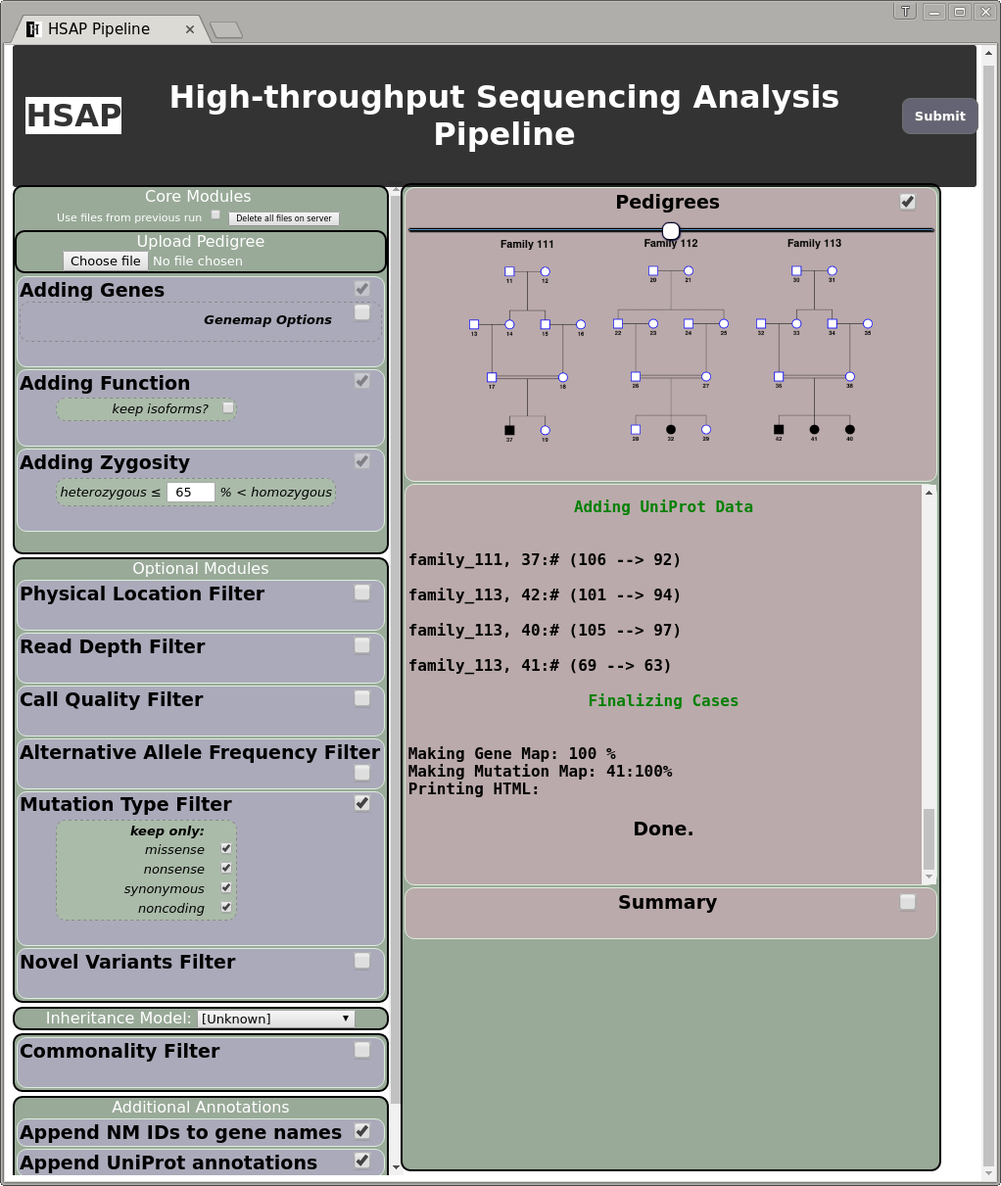
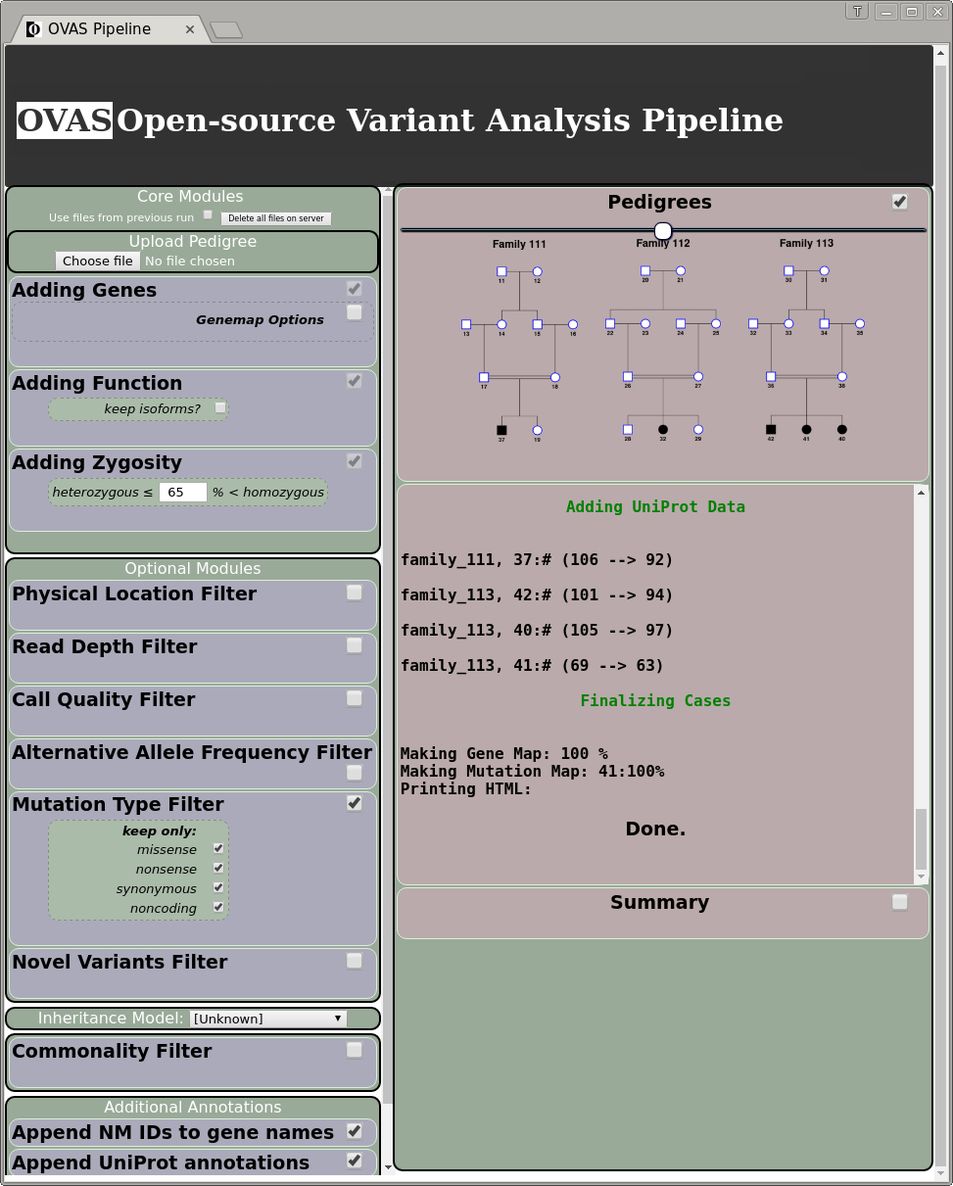
joined small paragraphs, fixed hsap -> ova

diff --git a/sections/introduction.tex b/sections/introduction.tex
@@ -16,23 +16,17 @@ BAM and VCF data are orthogonally related, with the former storing horizontal st
 %\fig{fig:pileup}{images/keep/pileup.jpg}
 %{Visualization of a BAM file using Golden Helix Genome Browser. (a) Read depth representing the amount of reads that have been aligned to the reference sequence (c) for each bp. The pile-up (b) shows each read in the given region. The red column indicates a single variant, with summarized variant properties shown in table (d).}
 
-\fig{fig:vcf}{images/keep/vcf_header.jpg}
-{VCF header and body data describing the type of annotations and their contents respectively.}
+%\fig{fig:vcf}{images/keep/vcf_header.jpg}
+%{VCF header and body data describing the type of annotations and their contents respectively.}
 
 
-The VCF specification was designed for the 1000 Genomes project to produce a robust format that could house the many samples often sequenced under the same batch, but has since been adopted by other projects such as UK10K, dbSNP, NHLBI Exome Project, and others. As shown in Fig~\ref{fig:vcf}, the format is flexible with annotations, where additional fields can be outlined in the header and adhered to in the body of the data \citep{danecek2011variant}. 
+The VCF specification was designed for the 1000 Genomes project to produce a robust format that could house the many samples often sequenced under the same batch, but has since been adopted by other projects such as UK10K, dbSNP, NHLBI Exome Project, and others. The format is flexible with annotations, where additional fields can be outlined in the header and adhered to in the body of the data. Each line of the VCF body describes a single variant; physical position paired with a reference allele (as ascribed by a reference genome consistent across the entire VCF file) and alternate alleles that appear within samples. Major and minor alleles are specific only to the sample population but their frequencies can be pre-computed and appended to a variant line as additional information to then be utilized in small population analyses such as inheritance modelling \citep{danecek2011variant}.
 
-Each line of the VCF body describes a single variant; physical position paired with a reference allele (as ascribed by a reference genome consistent across the entire VCF file) and alternate alleles that appear within samples. Major and minor alleles are specific only to the sample population but their frequencies can be pre-computed and appended to a variant line as additional information to then be utilized in small population analyses such as inheritance modelling \citep{danecek2011variant}.
-
-Variant analysis suites all work under the same principle; filtering all variants under a user-specified set of criteria against the various variant annotations present in the VCF in order to produce a subset informative to the phenotype. Optimistic filtering measures will produce a smaller set with the drawback of missing key causative variants, and conservative filtering measures will produce too many false positives.
-
-The effectiveness of an analysis rests primarily upon the accuracy of the variant annotations which can attribute to as much as 15\% of false negatives \citep{warden2014detailed}, as well as the frequency of false negatives that are discarded due to overly-stringent quality filtering. A common approach to addressing both issues is through learning algorithms that can be trained to favour individual variants over others with the caveat of producing results via 'black-box' methods that may create some disparity between the user and their data \citep{pabinger2014survey}. 
+Variant analysis suites all work under the same principle; filtering all variants under a user-specified set of criteria against the various variant annotations present in the VCF in order to produce a subset informative to the phenotype. Optimistic filtering measures will produce a smaller set with the drawback of missing key causative variants, and conservative filtering measures will produce too many false positives. The effectiveness of an analysis rests primarily upon the accuracy of the variant annotations which can attribute to as much as 15\% of false negatives \citep{warden2014detailed}, as well as the frequency of false negatives that are discarded due to overly-stringent quality filtering. A common approach to addressing both issues is through learning algorithms that can be trained to favour individual variants over others with the caveat of producing results via 'black-box' methods that may create some disparity between the user and their data \citep{pabinger2014survey}. 
 
 A more transparent approach is to expand the scope of the filtering beyond the variant/gene-level and explore variants under a larger trait-penetrance context outlined in Fig~\ref{fig:inheritance}.
 
-Mendelian traits conform to the four classical modes on inheritance of autosomal/X-linked dominant/recessive penetrance. Dominant disorders result from the inheritance of a single mutant allele which is manifested in each subsequent generation with a 50\% chance of likelihood in offspring from a single affected parent.
-
-Recessive traits require the inheritance of two mutant alleles on opposing strands in order to completely block any functioning copies of the causative gene. Parents are typically carriers with affected offspring. These disorders are at times a result of consanguineous marriages, where a single mutant allele manifests on both alleles due to the multiple paths of descent it can undertake \citep{kari2014consanguinity}. In the case of X-linked recessive inheritance, males with a single mutant copy are hemizygous and must express the phenotype as shown in Fig~\ref{fig:inheritancex}.
+Mendelian traits conform to the four classical modes on inheritance of autosomal/X-linked dominant/recessive penetrance. Dominant disorders result from the inheritance of a single mutant allele which is manifested in each subsequent generation with a 50\% chance of likelihood in offspring from a single affected parent. Recessive traits require the inheritance of two mutant alleles on opposing strands in order to completely block any functioning copies of the causative gene. Parents are typically carriers with affected offspring. These disorders are at times a result of consanguineous marriages, where a single mutant allele manifests on both alleles due to the multiple paths of descent it can undertake \citep{kari2014consanguinity}. In the case of X-linked recessive inheritance, males with a single mutant copy are hemizygous and must express the phenotype as shown in Fig~\ref{fig:inheritancex}.
 
 For non-Mendelian disorders, we also consider the special case of \textit{mosaicism}; where embryonic de novo mutations produce two or more populations of cells that result in segregated sets of genotypes within the same individual. Mosaic genotypes can be revealed stochastically by measuring alternate allele frequencies against expected values \citep{biesecker2013genomic}.
 

diff --git a/sections/subsections/methods_interface_and_environment.tex b/sections/subsections/methods_interface_and_environment.tex
@@ -8,15 +8,9 @@ The pipeline was originally developed in a headless Linux shell environment to b
 
 To necessitate the uptake of \app, a web interface was created to facilitate input validation and pipeline configuration process.
 
-The file upload procedure is streamlined by means of a pedigree file which pre-specifies cases (affecteds) and controls (unaffecteds) as well as their relation to one another. Pedigree data is automatically parsed into a file upload utility where the user can drag and drop their VCF files into the appropriate bins for processing.
+The file upload procedure is streamlined by means of a pedigree file which pre-specifies cases (affecteds) and controls (unaffecteds) as well as their relation to one another. Pedigree data is automatically parsed into a file upload utility where the user can drag and drop their VCF files into the appropriate bins for processing. The interface extends to display configuration options for each annotation and filtration module whilst uploading occurs in the background. Modules are enabled by expanding check-boxes to display individual module parameters and thresholds that can be overridden by user criterion, examples of which can be shown in Fig~\ref{fig:webend}. 
 
-The interface extends to display configuration options for each annotation and filtration module whilst uploading occurs in the background. Modules are enabled by expanding check-boxes to display individual module parameters and thresholds that can be overridden by user criterion, examples of which can be shown in Fig~\ref{fig:webend}. 
-
-A drop-down box of available penetrance model provides mutually-exclusive model-dependent options to better refine the analysis, such as parent or unaffected sibling-specific filtering. Additional annotation requirements are set (or skipped upon preference) and then the pipeline is run in tandem to the existing input session.
-
-In the case of user-termination, re-upload is not necessary for the same analysis as the process will reuse the temporary files from the last session and will not repeat the same work twice, resuming from where it left off.
-
-Once complete, the pipeline self-terminates and produces an interactive report of the remaining variants primed for feature presentation/concealment to help pinpoint variants of interest such as those shown in Fig~\ref{fig:report}.
+A drop-down box of available penetrance model provides mutually-exclusive model-dependent options to better refine the analysis, such as parent or unaffected sibling-specific filtering. Additional annotation requirements are set (or skipped upon preference) and then the pipeline is run in tandem to the existing input session. In the case of user-termination, re-upload is not necessary for the same analysis as the process will reuse the temporary files from the last session and will not repeat the same work twice, resuming from where it left off. Once complete, the pipeline self-terminates and produces an interactive report of the remaining variants primed for feature presentation/concealment to help pinpoint variants of interest such as those shown in Fig~\ref{fig:report}.
 
 The pipeline is spawned in a GNU \textit{screen} session in order to enable process control and resumeablility, where snapshots of a session in-process are repeatedly retrieved from the shell process to the web front-end via \textit{PHP} scripts. UI elements are managed with CSS and minimal Javascript, with the exception of the interactive report which performs table operations primarily through the latter. The front-end itself is hosted via a minimal \textit{lighttpd} server, and ongoing \app processes can be managed both from the web-interface as well as from the shell provided in the live environment.
 
@@ -30,9 +24,7 @@ The pipeline is spawned in a GNU \textit{screen} session in order to enable proc
 
 \subsubsection{Self-Contained Environment}
 
-The full \app suite comprises of the core pipeline processing back-end encapsulated by the web-interface to handle input validation, which is encapsulated once more by a live operating system that handles and provides general file utilities as well as overall startup.
-
-Each of these three components exist as separable peripherals, but are optimal in the above configuration by facilitating and abstracting the installation of each through the use of symbolic links and providing constant anchors for static data bundled with the environment.
+The full \app suite comprises of the core pipeline processing back-end encapsulated by the web-interface to handle input validation, which is encapsulated once more by a live operating system that handles and provides general file utilities as well as overall startup. Each of these three components exist as separable peripherals, but are optimal in the above configuration by facilitating and abstracting the installation of each through the use of symbolic links and providing constant anchors for static data bundled with the environment.
 
 Arch Linux was chosen as the environment backbone due to it being a lightweight "no-frills" operating system that does not come pre-packaged with desktop sessions (and their associated bloatware). \app runs straight off the X desktop server with the \app interface autostarted along with a minimal dock for spawning additional applications \citep{scheifler1986x}.
 

diff --git a/sections/discussion.tex b/sections/discussion.tex
@@ -11,9 +11,7 @@ In the case of general gene map use-cases, the \textit{Adding Genes} annotation 
 
 The rest of the annotation modules are comparatively much faster, with the functional annotations experiencing mild latency related to disk read speeds when performing repeated byte-offset lookup upon FASTA files. The initial sorting of the variants upon file upload is valuable in this regard due to the higher tendency of adjacent variants to share the same disk cluster and reap paging benefits.
 
-The last noticeable slowdown occurs within the Javascript-powered interactive report and is dependent upon the number of final variants it has to tabulate, where the difference between 1,000 and 10,000 final variants maps to a range of 1 to 15 seconds.
-
-Across subsequent pipeline runs, processing is not repeated for the same data; each module checks whether an input VCF file has already been processed by the current pipeline configuration, and repeatedly iterates through the module ordering until the last processed input set is reached where it can resume processing.
+The last noticeable slowdown occurs within the Javascript-powered interactive report and is dependent upon the number of final variants it has to tabulate, where the difference between 1,000 and 10,000 final variants maps to a range of 1 to 15 seconds. Across subsequent pipeline runs, processing is not repeated for the same data; each module checks whether an input VCF file has already been processed by the current pipeline configuration, and repeatedly iterates through the module ordering until the last processed input set is reached where it can resume processing.
 
 
 
@@ -22,8 +20,6 @@ Across subsequent pipeline runs, processing is not repeated for the same data; e
 
 The portability of \app grants a significant advantage over present-day web-based pipelines by keeping all analyses securely \textit{in situ}, which is greatly beneficial to regions of the world without consistent or active internet in addition to researchers handling personal or private data.
 
-Cloud-based analyses require input data to be uploaded to an external server in order to perform processing, and data ownership after upload is not always retained especially in the case where the work was performed within the cloud \citep{reed2010information}.
-
-Further, many cloud-services employ non-transparent proprietary methods to reduce the number of false-positives and false-negatives. A common approach is to make use of an internal database or learning algorithm that favours some variants over others based on previous analyses (or a similar training set) \citep{pabinger2014survey}, resulting in informative variants produced by unquantifiable "black-box" means, creating disparity between the end-user and their analysis.
+Cloud-based analyses require input data to be uploaded to an external server in order to perform processing, and data ownership after upload is not always retained especially in the case where the work was performed within the cloud \citep{reed2010information}. Further, many cloud-services employ non-transparent proprietary methods to reduce the number of false-positives and false-negatives. A common approach is to make use of an internal database or learning algorithm that favours some variants over others based on previous analyses (or a similar training set) \citep{pabinger2014survey}, resulting in informative variants produced by unquantifiable "black-box" means, creating disparity between the end-user and their analysis.
 
 Transparent filtering methods are likelier to instil greater confidence in the data with the added benefit of customization to better tailor a filter to an analysis in the case of open-source implementations, as with the case of \app.

diff --git a/sections/conclusion.tex b/sections/conclusion.tex
@@ -3,13 +3,9 @@
 
 The self-contained environment provided by \app allows researchers to tailor all aspects of their analysis and retain control of their data sets at any phase of processing by means of the transparent open-source modules that comprise the pipeline. 
 
-The live environment, paired with the web front-end, provides the additional advantage of abstracting the end-user from the underlying platform specifics by streamlining the input and configuration process, as well as logging active progress descriptions for the current stage of processing, and lastly providing a malleable final report upon all remaining variants discovered complete with dynamic filtering capabilities.
+The live environment, paired with the web front-end, provides the additional advantage of abstracting the end-user from the underlying platform specifics by streamlining the input and configuration process, as well as logging active progress descriptions for the current stage of processing, and lastly providing a malleable final report upon all remaining variants discovered complete with dynamic filtering capabilities. The entirety of all uploaded variants are processed first at the gene annotation stage, placing significant strain at the initial stage of the pipeline that is only managed through the use of employing C++ binaries to overcome the performance bottleneck that would otherwise exist with Python/Bash scripts.
 
-The entirety of all uploaded variants are processed first at the gene annotation stage, placing significant strain at the initial stage of the pipeline that is only managed through the use of employing C++ binaries to overcome the performance bottleneck that would otherwise exist with Python/Bash scripts.
-
-The annotation step is crucial however, especially for whole-genome sequence data where the vast majority of the variants would be deemed wholly intergenic and would be filtered out as uninformative to the analysis. More common exome-sequencing data typically observe less of a reduction at a much faster processing rate due to the smaller number of total variants, but at the impediment of missing regulatory elements due to lack of coverage.
-
-Modules downstream of the annotation stage run trivially, and due to the pipeline's resume feature which prevents \app from processing the same data twice, many subsequent analyses with different module configurations can be run in quick succession after the initial annotation step is complete.
+The annotation step is crucial, especially for whole-genome sequence data where the vast majority of the variants would be deemed wholly intergenic and would be filtered out as uninformative to the analysis. More common exome-sequencing data typically observe less of a reduction at a much faster processing rate due to the smaller number of total variants, but at the impediment of missing regulatory elements due to lack of coverage. Modules downstream of the annotation stage run trivially, and due to the pipeline's resume feature which prevents \app from processing the same data twice, many subsequent analyses with different module configurations can be run in quick succession after the initial annotation step is complete.
 
 \app is future-secure due to the inclusion of the background scripts that generated the static data being packaged with the live environment. Updates to the human genome reference, variant databases, and FASTA sequences can be retrieved on demand for platforms with active internet connections. Changes will preserve across successive boots for non-volatile storage mediums such as USB sticks, ideal in deployment scenarios with infrequent or absent internet access.
 

diff --git a/sections/subsections/methods_structure.tex b/sections/subsections/methods_structure.tex
@@ -1,9 +1,7 @@
 
 \subsection{Pipeline Modules}
 
-Each module is tasked with the function of separating variants from an input file into two distinct output VCF groups of "filtered" and "discarded"; with the former group being passed into the next module, and the latter being halted at the current point of processing to be stored for potential debugging purposes.
-
-The discard process at each module lends a progressive performance increase in the processing speed of each subsequent module due to the input being only a subset of the input that came before it, whilst still retaining the aggregate total of discarded variants at each step.
+Each module is tasked with the function of separating variants from an input file into two distinct output VCF groups of "filtered" and "discarded"; with the former group being passed into the next module, and the latter being halted at the current point of processing to be stored for potential debugging purposes. The discard process at each module lends a progressive performance increase in the processing speed of each subsequent module due to the input being only a subset of the input that came before it, whilst still retaining the aggregate total of discarded variants at each step.
 
 \subsubsection{Pre-processing}
 
@@ -12,9 +10,7 @@ All VCF files immediately undergo initial preparation upon file upload from the 
 
 \subsubsection{Core Annotation}
 
-The annotation stages of the pipeline then prime the variants with relevant metadata that will then be filtered against user-criterion throughout the rest of the pipeline. The annotation stage is the only mandatory stage of the pipeline, and a great portion of filtering occurs at these stages too, with up to 90\% of true negatives being discarded.
-
-As a result of the large demand placed upon the modules at this stage, they were written in the C++ in order to reduce time and memory constraints on low-end platforms. The stage is split into three modules (in order of processing): 
+The annotation stages of the pipeline then prime the variants with relevant metadata that will then be filtered against user-criterion throughout the rest of the pipeline. The annotation stage is the only mandatory stage of the pipeline, and a great portion of filtering occurs at these stages too, with up to 90\% of true negatives being discarded. As a result of the large demand placed upon the modules at this stage, they were written in the C++ in order to reduce time and memory constraints on low-end platforms. The stage is split into three modules (in order of processing): 
 
 \begin{itemize}
 
@@ -34,9 +30,7 @@ Once fully annotated, the resultant output VCFs are ready to be processed by the
 
 \subsubsection{Filtration Modules}
 
-The filtration modules consist of a series of Python (v2.7) scripts designed to parse these fields with the aim of minimizing the need for any mapping or additional pass-throughs.
-
-A variant line in a VCF file describes six mandatory fields grouped into three distinct categories (in order of filtration complexity):
+The filtration modules consist of a series of Python (v2.7) scripts designed to parse these fields with the aim of minimizing the need for any mapping or additional pass-throughs. A variant line in a VCF file describes six mandatory fields grouped into three distinct categories (in order of filtration complexity):
 
 \begin{enumerate}
 \belem{Variant Properties}{(CHROM) chromosome number, (POS) physical base-pair position, (REF) reference allele, and (ALT) alternate allele(s). These are processed by the following filtration modules:

diff --git a/sections/approach.tex b/sections/approach.tex
@@ -6,8 +6,6 @@ The core ideology behind \app was to preserve the VCF specification at each step
 
 Module ordering is flexible in this regard, with the exception of the primary annotation modules which are required to run prior to any filtering in order to produce an effective analysis of the variants. Pre-existing gene and function annotations within input data are ignored unless generated by a previous run of the \app pipeline, supplanting foreign annotations with the pipeline's own if required. This is to ensure unambiguous results stemming from external annotations using unknown sources that may result in erroneous output variants.
 
-\app is rooted firmly in trusted public domain databases such as RefGene, dbSNP, UniProt, and many others accessed through the widely-used UCSC Genome Browser \citep{karolchik2003ucsc}, ensuring a beneficial accordance between the variants described in both the Genome Browser and \app.
-
-The explicitly open nature of pipeline also prompts a predilection towards open-source or scripted languages and frameworks, which further serve to uphold the confidence between the end-user and their data.
+\app is rooted firmly in trusted public domain databases such as RefGene, dbSNP, UniProt, and many others accessed through the widely-used UCSC Genome Browser \citep{karolchik2003ucsc}, ensuring a beneficial accordance between the variants described in both the Genome Browser and \app. The explicitly open nature of pipeline also prompts a predilection towards open-source or scripted languages and frameworks, which further serve to uphold the confidence between the end-user and their data.
 
 Though core operations are managed primarily through back-end shell scripts, the pipeline can be accessed and configured through a web-front interface in order to cater for simplicity and user-operability. Users can upload their data either through the web-interface or by manual file placement as preference dictates,

diff --git a/sections/results.tex b/sections/results.tex
@@ -4,9 +4,7 @@
 
 \subsubsection{First Case}
 
-Three families presented with an autosomal recessive disease, with whole-exome sequencing being performed upon the affected members of each pedigree. From the 5 affected VCF input data acquired, 3 were siblings permitting the use of variant-level filtering.
-
-Each VCF file comprised of approximately 270,000 variants (SNPs and InDels) and were profiled against a gene map at the first annotation step (\textit{Adding Genes}) that comprised of exons, introns, 5' and 3' UTR, and essential splice sites (5bp).
+Three families presented with an autosomal recessive disease, with whole-exome sequencing being performed upon the affected members of each pedigree. From the 5 affected VCF input data acquired, 3 were siblings permitting the use of variant-level filtering. Each VCF file comprised of approximately 270,000 variants (SNPs and InDels) and were profiled against a gene map at the first annotation step (\textit{Adding Genes}) that comprised of exons, introns, 5' and 3' UTR, and essential splice sites (5bp).
 
 As much as 90\% of variants were deemed wholly intergenic and filtered at the annotation stage, leaving a drastically reduced subset of approximately 30,000 potentially relevant variants. Following the VCF depicted in Fig~\ref{fig:result} (top), a further 4,544 variants are discarded as a result of the autosomal recessive filter which searched for homozygous or compound heterozygous variants alone, due to the lack of parental input data to further pre-screen for Mendelian variants. Sibling filtering at the common variant-level assisted in this regard, and the remaining genes were bisected between pedigrees through the use of the common gene filter.
 

diff --git a/other/abstract.tex b/other/abstract.tex
@@ -13,7 +13,7 @@ Three case studies were analysed; 2 of autosomal recessive inheritance, and an X
 \\
 \textbf{Availability:} \app is licensed under GPLv3 and is hosted and maintained via Bitbucket.\\\
 \
-\textit{Source Code:}\ \ \url|https://www.bitbucket.io/mozere/HSAP_Pipeline|\\
+\textit{Source Code and Live ISO:}\ \ \url|https://www.bitbucket.io/momo13/ovas-pipeline.git|\\
 \
 \textbf{Supplementary information:} Supplementary data is available from \textit{Bioinformatics} online.\\
 \textbf{Contact:} \href{r.kleta@ucl.ac.uk}{r.kleta@ucl.ac.uk}\

diff --git a/main.tex b/main.tex
@@ -24,10 +24,9 @@
 \subtitle{Subject Section XXXX}
 
 \title[OVAS]{Open-source Variant Analysis Suite}
-\author[Mozere \textit{et~al}.]{\
-Monika Mozere\,$^{\text{\sfb 1\dag}}$,\
+\author[Mozere \textit{et~al}.]{Monika Mozere\,$^{\text{\sfb 1\dag}}$,\
 Mehmet Tekman\,$^{\text{\sfb 1\dag}}$,\
-Jameela A. Kari\,$^{\text{\sfb 2}}$,\
+Jameela A. Kari\,$^{\text{\sfb 2}}$,\\
 Detlef Bockenhauer\,$^{\text{\sfb 1}}$,\
 Robert Kleta\,$^{\text{\sfb 1*}}$,\
 and Horia Stanescu\,$^{\text{\sfb 1}}$\
